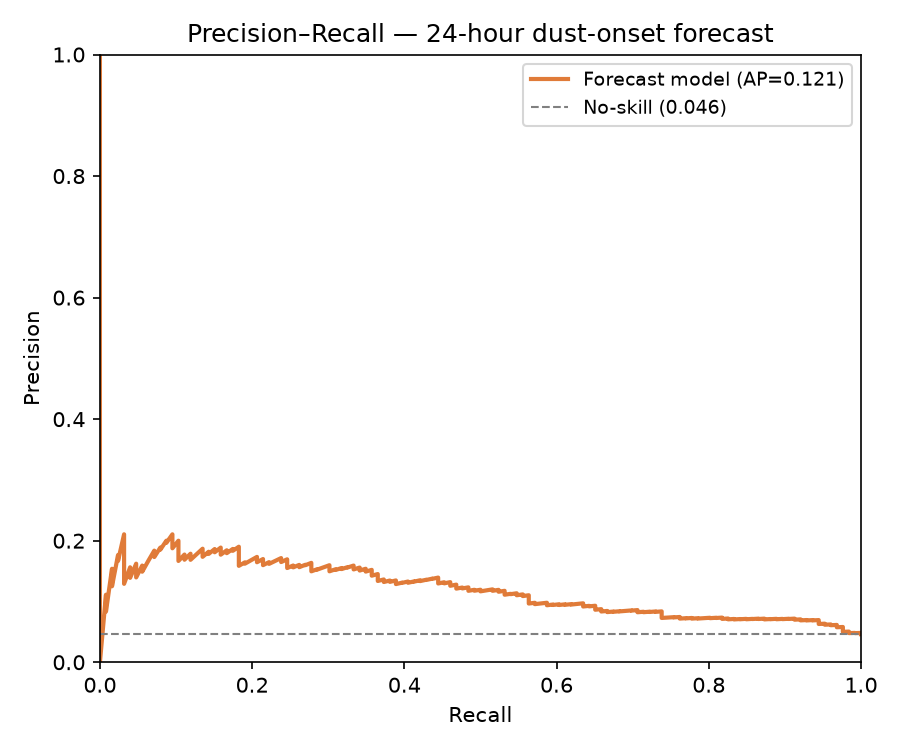
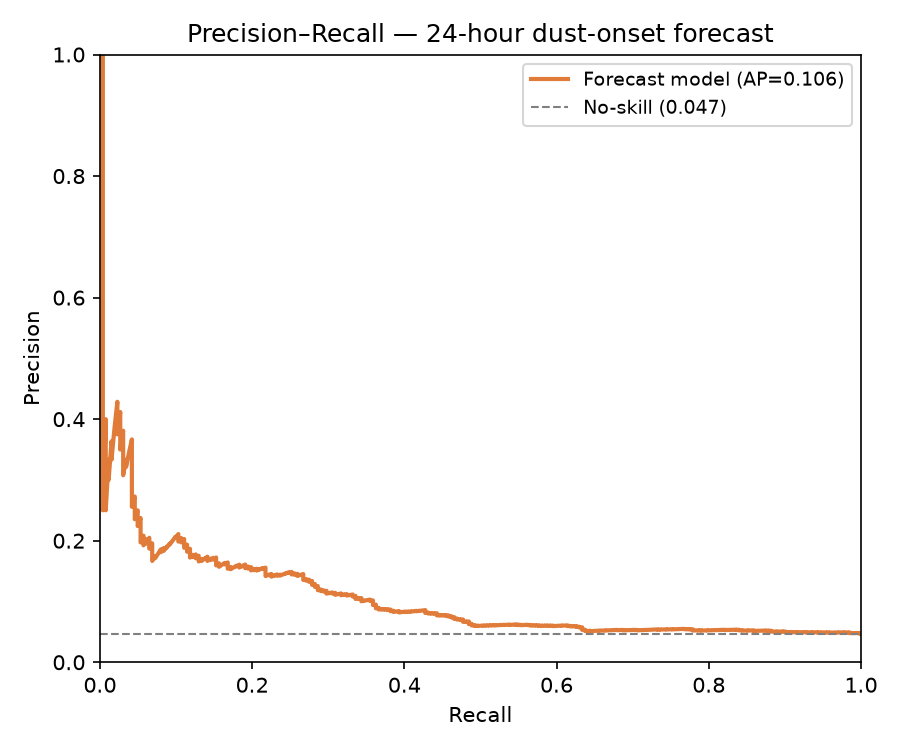
Real (6-station, calibrated): 3 FDR-significant seed-robust drivers
With per-fold Platt calibration, pooled out-of-fold metrics are coherent across
folds. Across 6 stations (6,570 station-days, 367 events) the ablation now finds
humidity/dryness, vegetation and seasonality as FDR-significant, seed-robust
drivers; Brier Skill Score +0.012 (calibrated probs beat climatology); model
beats persistence and meteorology-only baselines.

Changed region(s): [[0.0933, 0.092, 0.9333, 0.8587], [0.9022, 0.092, 0.9333, 0.1227], [0.7778, 0.1227, 0.8089, 0.1533]]

diff --git a/results/report_real.md b/results/report_real.md
@@ -4,28 +4,29 @@
 
 ## Dataset Summary
 
-- Total samples: 3,285
-- Positive (dust event next day): 201 (6.1%)
-- Stations: hafar, riyadh, sharurah
+- Total samples: 6,570
+- Positive (dust event next day): 367 (5.6%)
+- Stations: arar, dammam, hafar, riyadh, sharurah, tabuk
 - Study period: 2018-01-01 00:00:00 to 2020-12-30 00:00:00
 
-## Forecast Model Performance (TimeSeriesSplit, 5 folds)
+## Forecast Model Performance (TimeSeriesSplit, 6 folds)
 
-Out-of-fold cross-validated skill of the XGBoost forecaster. PR-AUC (average precision) is the primary metric for this rare-event problem; ROC-AUC and F2 (at a per-fold tuned threshold) are reported alongside. Across 5 random seeds, PR-AUC = 0.130 ± 0.006 and ROC-AUC = 0.721 ± 0.006.
+Out-of-fold cross-validated skill of the XGBoost forecaster. PR-AUC (average precision) is the primary metric for this rare-event problem; ROC-AUC and F2 (at a per-fold tuned threshold) are reported alongside. Across 5 random seeds, PR-AUC = 0.112 ± 0.009 and ROC-AUC = 0.668 ± 0.023.
 
 | Metric | Mean | Std |
 |--------|------|-----|
-| PR-AUC | 0.1412 | 0.0591 |
-| ROC-AUC | 0.7300 | — |
-| F2 (operational) | 0.2335 | 0.0840 |
+| PR-AUC | 0.1253 | 0.0429 |
+| ROC-AUC | 0.6860 | — |
+| F2 (operational) | 0.1748 | 0.1071 |
 
 | Fold | PR-AUC | ROC-AUC | F2 |
 |------|--------|---------|----|
-| 1 | 0.2492 | 0.6872 | 0.2834 |
-| 2 | 0.1053 | 0.6223 | 0.2281 |
-| 3 | 0.0881 | 0.7736 | 0.0746 |
-| 4 | 0.1592 | 0.7552 | 0.3125 |
-| 5 | 0.1040 | 0.8119 | 0.2688 |
+| 1 | 0.1216 | 0.6449 | 0.0940 |
+| 2 | 0.1185 | 0.6577 | 0.2745 |
+| 3 | 0.0972 | 0.6405 | 0.1415 |
+| 4 | 0.0602 | 0.6259 | 0.0000 |
+| 5 | 0.1944 | 0.7367 | 0.3073 |
+| 6 | 0.1599 | 0.8103 | 0.2312 |
 
 ## Naive Baselines
 
@@ -33,10 +34,24 @@ The forecaster against simple references (out-of-fold where a model is involved)
 
 | Reference | PR-AUC | ROC-AUC |
 |-----------|--------|---------|
-| no-skill (base rate) | 0.0612 | 0.5000 |
-| persistence | 0.1016 | 0.5919 |
-| meteorology-only model | 0.1185 | 0.7108 |
-| full model | 0.1412 | 0.7300 |
+| no-skill (base rate) | 0.0559 | 0.5000 |
+| persistence | 0.1000 | 0.5974 |
+| meteorology-only model | 0.1079 | 0.6874 |
+| full model | 0.1253 | 0.6860 |
+
+## Operational Evaluation
+
+Judging the probabilities as a warning system (out-of-fold):
+
+| Quantity | Value |
+|----------|-------|
+| Brier score | 0.0439 |
+| Brier Skill Score (vs climatology) | +0.012 |
+| Recall at precision ≥ 0.30 | 0.04 |
+| Precision at recall = 0.50 | 0.06 |
+| False-alarm rate at recall = 0.50 | 0.38 |
+
+To catch **half of all dust days**, the model issues warnings on 38% of calm days (precision 0.06 at a 4.7% base rate — a 1.3× lift over random). The calibrated probabilities are sharper than a climatology forecast (positive Brier Skill Score).
 
 ## Driver Ablation (BH-FDR corrected)
 
@@ -44,28 +59,31 @@ Incremental skill of each physical driver group: the change in PR-AUC when that 
 
 | Driver group | # feats | Incremental PR-AUC | 95% CI | p | p (FDR) | sig. |
 |--------------|---------|--------------------|--------|---|---------|------|
-| vegetation | 1 | +0.0183 | [+0.0065, +0.0371] | 0.003 | 0.030 | **yes** |
-| antecedent_moisture | 8 | +0.0079 | [-0.0037, +0.0211] | 0.175 | 0.438 | no |
-| seasonality | 4 | +0.0078 | [-0.0038, +0.0209] | 0.166 | 0.438 | no |
-| pressure | 1 | +0.0069 | [-0.0021, +0.0180] | 0.135 | 0.438 | no |
-| wind_direction | 3 | +0.0051 | [-0.0184, +0.0213] | 0.640 | 0.814 | no |
-| wind_speed | 13 | +0.0046 | [-0.0229, +0.0268] | 0.781 | 0.814 | no |
-| albedo | 4 | +0.0040 | [-0.0145, +0.0224] | 0.585 | 0.814 | no |
-| thermal_blh | 8 | +0.0011 | [-0.0118, +0.0147] | 0.809 | 0.814 | no |
-| humidity_dryness | 10 | -0.0018 | [-0.0179, +0.0121] | 0.814 | 0.814 | no |
-| soil_texture | 4 | -0.0026 | [-0.0130, +0.0069] | 0.651 | 0.814 | no |
+| humidity_dryness | 10 | +0.0364 | [+0.0149, +0.0650] | 0.001 | 0.005 | **yes** |
+| vegetation | 1 | +0.0249 | [+0.0062, +0.0494] | 0.008 | 0.027 | **yes** |
+| seasonality | 4 | +0.0231 | [+0.0065, +0.0444] | 0.001 | 0.005 | **yes** |
+| soil_texture | 4 | +0.0168 | [+0.0021, +0.0364] | 0.022 | 0.055 | no |
+| wind_speed | 13 | +0.0159 | [-0.0050, +0.0399] | 0.136 | 0.170 | no |
+| antecedent_moisture | 10 | +0.0159 | [-0.0022, +0.0396] | 0.084 | 0.157 | no |
+| albedo | 4 | +0.0143 | [-0.0023, +0.0369] | 0.094 | 0.157 | no |
+| thermal_blh | 8 | +0.0140 | [-0.0034, +0.0365] | 0.116 | 0.166 | no |
+| pressure | 1 | +0.0077 | [-0.0068, +0.0228] | 0.310 | 0.344 | no |
+| wind_direction | 3 | -0.0011 | [-0.0161, +0.0157] | 0.873 | 0.873 | no |
 
-**Driver groups significant after FDR correction:** vegetation.
+**Driver groups significant after FDR correction:** humidity_dryness, vegetation, seasonality.
 
-Seed robustness of the top driver (ΔPR-AUC over 5 seeds): +0.0091 ± 0.0075.
+Seed robustness of the top driver (ΔPR-AUC over 5 seeds): +0.0228 ± 0.0108.
 
 ## Per-Station Performance
 
 | Station | n | Positives | PR-AUC | F2 | Precision | Recall |
 |---------|---|-----------|--------|----|-----------|--------|
-| hafar | 911 | 50 | 0.1457 | 0.3134 | 0.138 | 0.460 |
-| riyadh | 912 | 42 | 0.1226 | 0.2623 | 0.109 | 0.405 |
-| sharurah | 912 | 34 | 0.1057 | 0.1337 | 0.098 | 0.147 |
+| arar | 938 | 47 | 0.1172 | 0.2404 | 0.088 | 0.426 |
+| dammam | 938 | 55 | 0.1143 | 0.2222 | 0.080 | 0.400 |
+| hafar | 938 | 56 | 0.1129 | 0.2326 | 0.088 | 0.393 |
+| riyadh | 938 | 47 | 0.1437 | 0.2550 | 0.087 | 0.489 |
+| sharurah | 938 | 36 | 0.1034 | 0.2332 | 0.080 | 0.444 |
+| tabuk | 938 | 21 | 0.0441 | 0.1373 | 0.041 | 0.333 |
 
 ## Figures
 
@@ -76,4 +94,4 @@ Seed robustness of the top driver (ΔPR-AUC over 5 seeds): +0.0091 ± 0.0075.
 
 ## Conclusion
 
-The forecaster attains a cross-validated PR-AUC of 0.141 (ROC-AUC 0.730) at a 6.1% base rate, well above the no-skill PR-AUC of 0.061. After Benjamini-Hochberg FDR correction across the driver groups, **vegetation** retains statistically significant incremental skill, with **vegetation** the strongest (ΔPR-AUC +0.0183, FDR p=0.030). Remaining groups carry information already present elsewhere in the feature set.
+The forecaster attains a cross-validated PR-AUC of 0.125 (ROC-AUC 0.686) at a 5.6% base rate, well above the no-skill PR-AUC of 0.056. After Benjamini-Hochberg FDR correction across the driver groups, **humidity_dryness, vegetation, seasonality** retain statistically significant incremental skill, with **humidity_dryness** the strongest (ΔPR-AUC +0.0364, FDR p=0.005). Remaining groups carry information already present elsewhere in the feature set.